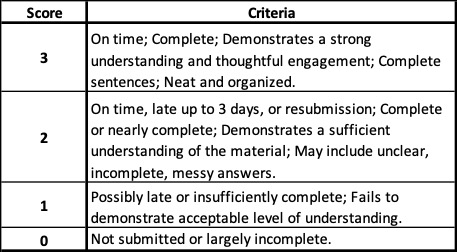
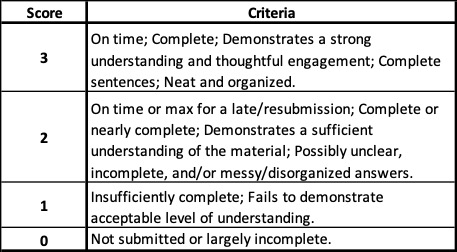
Updated syllabus

diff --git a/docs/syllabus.md b/docs/syllabus.md
@@ -35,9 +35,9 @@ A short reading on contemporary social/legal/ethical issues in computing will be
 
 To prepare for these discussions you might:
 - Identify the main points made by the reading.
-- Think about your position on any controversial or unsettled issues raised.
+- Think about your position on any controversial or unsettled issues that are raised.
 - Note things that you found interesting that you would like to hear your classmates opinions on.
-- Prepare questions on things that were unclear to you.
+- Prepare questions to ask on things that were unclear to you.
 
 #### Introductory Presentations
 
@@ -45,7 +45,7 @@ Each class will include a short introductory presentation to the day's topic by 
 
 #### Homework Activities
 
-Following each introduction, you will complete a collection of activities that guide you through the development of the main ideas, techniques for solving problems and provide practice with the material.  These activities will start from the introductory material but will also contain additional videos/readings and guide you through the learning of additional new material that builds on the introductory material.  Typically there will be time at the end of each meeting to begin the activities.  You should expect that the Activities will require up to 3-4 hours total (Note: This is consistent with Dickinson’s standard that every hour in class is accompanied by 3 hours of work outside of class).
+Following each introduction, you will complete a collection of activities that guide you through the development of the main ideas, techniques for solving problems and provide practice with the material.  These activities will start from the introductory material but will also contain additional videos/readings and guide you through the learning of additional new material that builds on the introductory material.  Typically there will be time at the end of each meeting to begin the activities.  You should expect that the Activities will require up to 3-4 hours outside of class (Note: This is consistent with Dickinson’s standard that every hour in class is accompanied by 3 hours of work outside of class).
 
 #### Quizzes
 
@@ -65,17 +65,17 @@ You will receive a PAE score for each class meeting using the following rubric:
 
 You will receive a score on each Homework Activity using the following rubric:
 
-![Activity Rubric. 3 points - On time; Complete; Demonstrates a strong understanding and thoughtful engagement; Complete sentences; Neat and organized. 2 points - On time, late up to 3 days, or resubmission; Complete or nearly complete; Demonstrates a sufficient understanding of the material; May include unclear, incomplete, messy answers. 1 point - Possibly late or insufficiently complete; Fails to demonstrate acceptable level of understanding. 0 points - Not submitted or largely incomplete.](images/Activity-Rubric.jpg)
+![Activity Rubric. 3 points - On time; Complete; Demonstrates a strong understanding and thoughtful engagement; Complete sentences; Neat and organized. 2 points - On time or max for a late/resubmission; Complete or nearly complete; Demonstrates a sufficient understanding of the material; Possibly unclear, incomplete, and/or messy/disorganized answers. 1 point - Insufficiently complete; Fails to demonstrate acceptable level of understanding. 0 points - Not submitted or largely incomplete.](images/Activity-Rubric.jpg)
 
-A Homework Activity receiving a score of 1 or 0 may be resubmitted once within 3 days of being returned. An activity resubmitted within 3 days will be rescored and the new score will replace the original.  Resubmitted activities may receive a score of up to 2. Resubmissions after 3 days will not be accepted and the original score will remain.
+A Homework Activity receiving a score of 1 or 0 may be (re)submitted once within 1 week of being returned to the class. An activity (re)submitted within 1 week will be (re)scored and the new score will replace the original.  Late or resubmitted activities will receive a maximum score of 2. (Re)Submissions more 1 week after an assignment is returned to the class will not be accepted and the original score will remain.  Extensions beyond 1 week will only be considered in extenuating circumstances with appropriate documentation.  Please see the "Life Happens" section at the bottom of this document.
 
 #### Quizzes
 
 You will receive a score on each Quiz using the following rubric:
 
-![Quiz Rubric. 3 points - Perfect quiz. 2 points - Nearly perfect quiz; Sufficient. 1 point - Unused. A score of 2 or 3 is required on all quizes. 0 points - Quiz has not been taken or is not sufficient.](images/Quiz-Rubric.jpg)
+![Quiz Rubric. 3 points - Perfect score; 100%. 2 points - Sufficient score; >95%. 1 point - Unused. All quizzes must be at least sufficient. 0 points - Quiz has not been taken or is not sufficient.](images/Quiz-Rubric.jpg)
 
-Quizzes are automatically graded by Moodle and may be taken as many times as necessary to achieve a satisfactory score.  Quizzes must be up to date at Roll Call and at the time of the Final Exam.
+Quizzes are automatically graded by Moodle and may be taken as many times as necessary to achieve a perfect or sufficient score.  Quizzes must be up to date at Roll Call (i.e. fall pause or spring break) and at the time of the Final Exam.
 
 #### Receiving Credit for the Course
 
@@ -93,12 +93,12 @@ The specific policies for COMP190 are detailed below. If you are unsure about wh
 
 #### Collaboration
 
-Homework Activities and Quizzes in COMP 190 are individual assignments. Sharing or receiving of answers to assignments is not permitted. All work submitted must be your own work.
+Homework Activities and Quizzes in COMP 190 are individual assignments. All work submitted must be your own work. Sharing or receiving of answers to assignments is not permitted.
 
 However, you are encouraged to interact and to help each other learn.  For example:
 - You may ask and answer clarifying questions about assignments from your peers.
 - You can ask for suggestions of other resources to use or how to proceed with an assignment.  
-- You can help each other complete individual questions in the activities.
+- You can help each other complete individual questions in the activities, as long as you each do the work individually.
 - You can visit evening TA lab hours in Tome 118 and consult the TA.
 - Etc.
 
@@ -128,4 +128,4 @@ This class meets and my office are located on the second floor of Tome Hall, whi
 
 ### Life Happens:
 
-Sometimes stuff just happens, even more so in the challenging situations in we currently find ourselves. Sometimes it is an unexpected sudden event such as an illness or family emergency. Other times it may be an ongoing issue or concern or an accumulation of smaller issues. Any of these things may affect your (or my) ability to focus or perform up to your (or my) potential through no shortcoming or fault of your (my) own. Dickinson is a kind and caring community and we want to see you achieve at your full potential. So, if you are experiencing life events that are affecting your performance please don’t hesitate to talk to your instructor, your advisor or your class Dean. They will all be willing to talk with you, help to formulate a plan and/or connect you with others that may be able to assist. If I am experiencing such events, I will communicate them to you as well and we will adapt.
+Sometimes stuff just happens, even more so in the challenging situations in we currently find ourselves. Sometimes it is an unexpected sudden event such as an illness or family emergency. Other times it may be an ongoing issue or concern or an accumulation of smaller issues. Any of these things may affect your (or my) ability to focus or perform up to your (or my) potential through no shortcoming or fault of your (my) own. Dickinson is a kind and caring community and we want to see you achieve at your full potential. So, if you are experiencing life events that are affecting your performance please don’t hesitate to talk to your instructor, your advisor or your class Dean. They will all be willing to talk with you, help to formulate a plan and/or connect you with others that may be able to assist. If you are going to miss a due date for this course, please contact the instructor in advance. If I am experiencing such events, I will communicate them to you as well and we will adapt.
